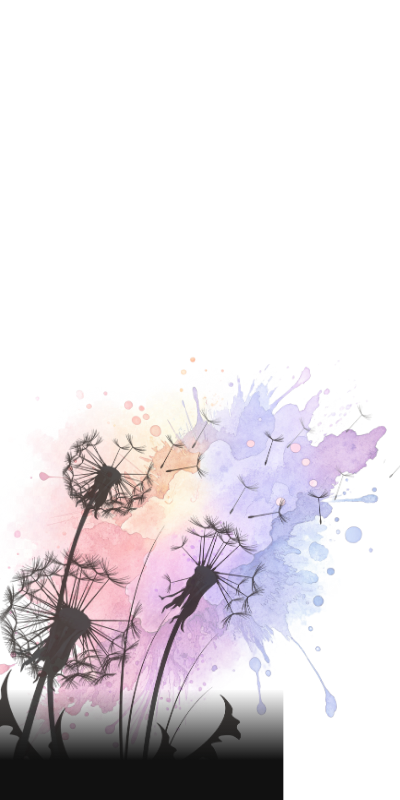
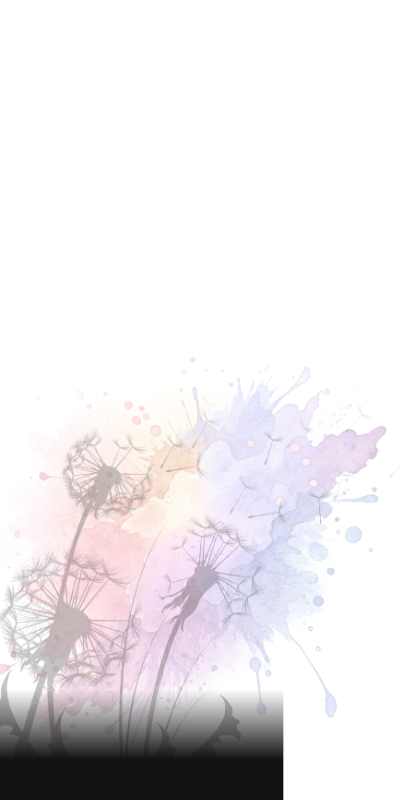
Mobile Optimization

diff --git a/Web/main.js b/Web/main.js
@@ -4724,7 +4724,7 @@ position:'absolute',
       opacity:'0',
       fontStyle: 'normal',
       left:{'Mobile':{'Portrait':'7%','Landscape':'7%'},'Pc':'64%'},
-      top:{'Mobile':{'Portrait':'52%','Landscape':'52%'},'Pc':'42.5%'},
+      top:{'Mobile':{'Portrait':'58%','Landscape':'52%'},'Pc':'42.5%'},
       cursor:'default'
       
      
@@ -4758,7 +4758,7 @@ position:'absolute',
       cursor:'pointer',
       fontStyle: 'normal',
       left:{'Mobile':{'Portrait':'7%','Landscape':'7%'},'Pc':'64%'},
-      top:{'Mobile':{'Portrait':'56%','Landscape':'56%'},'Pc':'36.4%'},
+      top:{'Mobile':{'Portrait':'66%','Landscape':'56%'},'Pc':'36.4%'},
       
      
 },
@@ -4786,11 +4786,11 @@ position:'absolute',
       Type:'div',
       Style:{
          position:'absolute',
-    left:{'Pc':'60%','Mobile':'60%'},
-    top:{'Pc':'32%','Mobile':'32%'},
-    width:{'Pc':'2%','Mobile':'4%'},
+    left:{'Pc':{'Portrait':'0%','Landscape':'5%'},'Mobile':'60%'},
+    top:{'Pc':'32%','Mobile':{'Portrait':'47%','Landscape':'45%'}},
+    width:{'Pc':'2%','Mobile':{'Portrait':'5%','Landscape':'5%'}},
     opacity:'0',
-    height:{'Pc':'2%','Mobile':'0.4%'},
+    height:{'Pc':'2%','Mobile':{'Portrait':'5%','Landscape':'5%'}},
       backgroundImage:"url('./Images/InstagramIcon.png')",
         backgroundRepeat:'no-repeat',
         backgroundPosition:'center',
